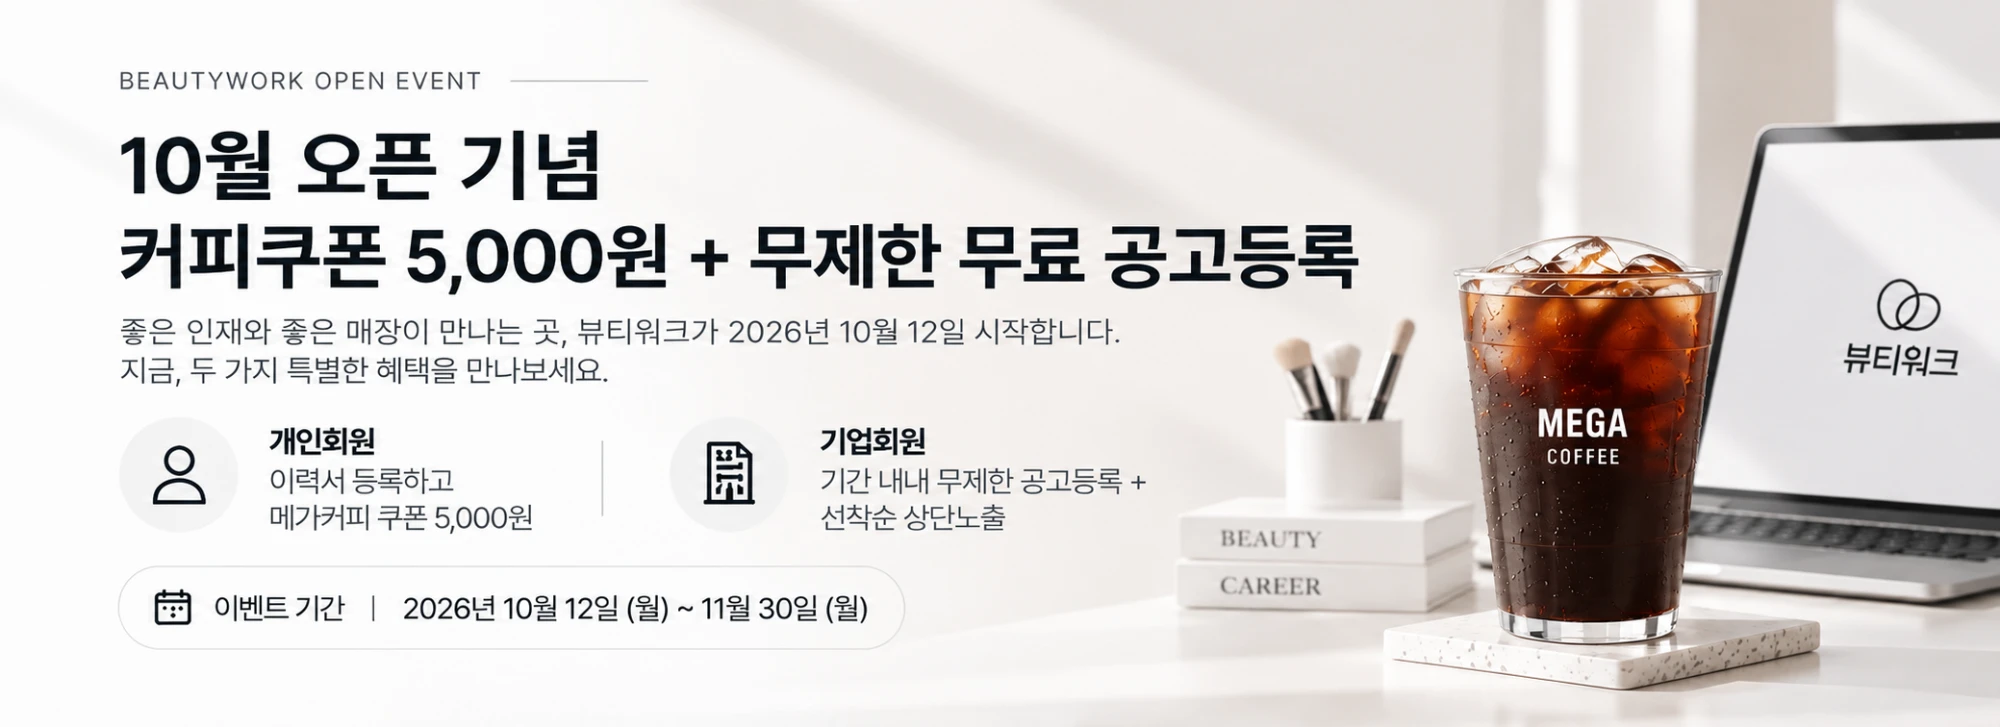
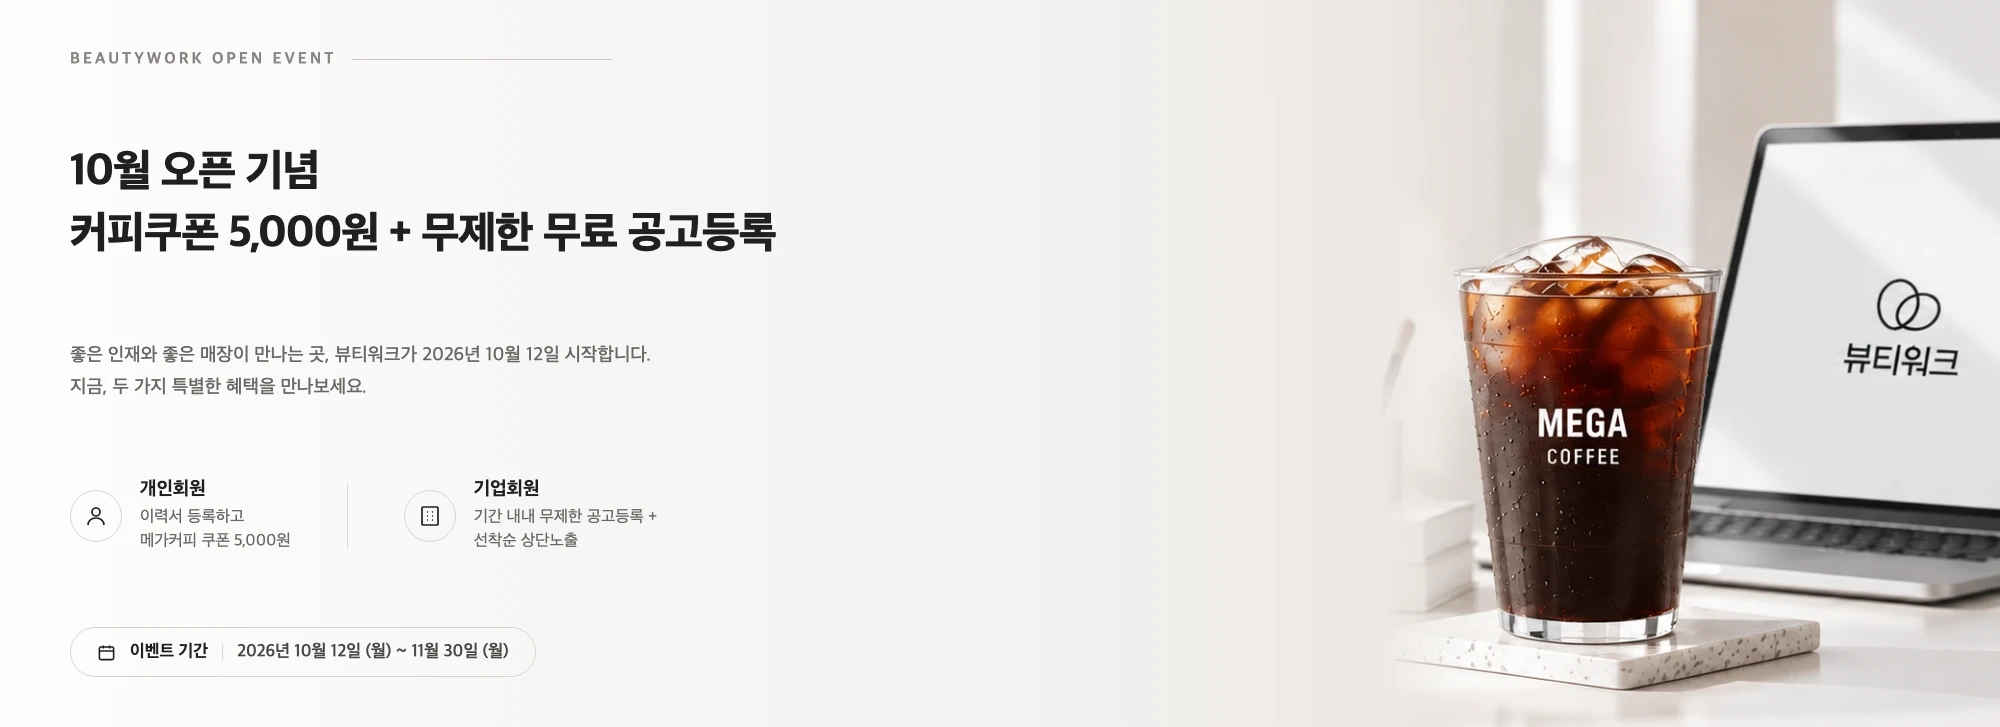
오픈이벤트 배너 글자를 줄이고 여백을 살려 다시 짠다
기존 배너는 원본 그림에 글자가 통째로 구워져 있어 폰트 크기를 못 고쳤다.
같은 사진(오른쪽 커피·노트북 컷만 오려냄)에 글자를 실제 HTML로 다시 짜서
크롬 헤드리스로 2000x727 그대로 굽는 방식으로 바꿨다 — 이제 글자 크기·
줄간격을 코드로 고칠 수 있다. 크기를 줄이고 다섯 블록(줄표·제목·설명·
혜택 둘·기간)을 위아래 전체에 고르게 펼쳐 예전에 비어 있던 상하 여백을
쓴다. 다음에 고칠 때 쓰라고 원본 템플릿(banner.html)과 사진을 같이 둔다.

diff --git a/scripts/오픈이벤트배너/banner.html b/scripts/오픈이벤트배너/banner.html
@@ -1,0 +1,97 @@
+<!-- 오픈 이벤트 메인 배너(2000x727) 원본.
+     사진(photo.png)은 처음 받은 오픈이벤트-메인배너.webp 의 오른쪽만 오려낸 것 —
+     글자는 실제 <div> 라 크기·간격을 여기서 고치고 다시 구우면 된다.
+
+     굽는 법(크롬 헤드리스로 정확한 픽셀 크기로 찍는다):
+       CHROME="/Applications/Google Chrome.app/Contents/MacOS/Google Chrome"
+       "$CHROME" --headless --disable-gpu --hide-scrollbars \
+         --force-device-scale-factor=1 --screenshot=out.png \
+         --window-size=2000,727 "file://$(pwd)/banner.html"
+     그 다음 PNG를 public/images/event/오픈이벤트-메인배너.webp 로 webp 변환해 덮어쓴다. -->
+<!DOCTYPE html>
+<html>
+<head>
+<meta charset="utf-8">
+<style>
+  @font-face {
+    font-family: 'Pretendard';
+    src: local('Apple SD Gothic Neo');
+  }
+  * { box-sizing: border-box; margin: 0; padding: 0; }
+  html, body { width: 2000px; height: 727px; overflow: hidden; }
+  body { font-family: 'Apple SD Gothic Neo', 'Pretendard', sans-serif; }
+  .wrap { display: flex; width: 2000px; height: 727px; }
+  .left {
+    flex: 0 0 1380px;
+    height: 727px;
+    padding: 50px 70px;
+    display: flex;
+    flex-direction: column;
+    justify-content: space-between;
+    background: linear-gradient(90deg, #fdfdfd 0%, #f3f1ef 78%, #ece8e4 100%);
+  }
+  .right { flex: 0 0 620px; height: 727px; overflow: hidden; position: relative; }
+  .right img { width: 100%; height: 100%; object-fit: cover; display: block; }
+  .right::before { content: ""; position: absolute; inset: 0; width: 90px;
+    background: linear-gradient(90deg, #ece8e4 0%, rgba(236,232,228,0) 100%); }
+
+  .eyebrow { display: flex; align-items: center; gap: 16px; }
+  .eyebrow span { font-size: 16px; font-weight: 700; letter-spacing: 3px; color: #8a8580; }
+  .eyebrow i { display: block; width: 260px; height: 1px; background: #cfc9c3; }
+
+  .headline { font-size: 44px; font-weight: 800; line-height: 1.42; letter-spacing: -1px; color: #1f1f22; }
+
+  .desc { font-size: 19px; font-weight: 500; line-height: 1.7; color: #6b6864; }
+
+  .benefits { display: flex; align-items: flex-start; gap: 56px; }
+  .benefit { display: flex; align-items: center; gap: 18px; }
+  .benefit .ic { flex: none; width: 52px; height: 52px; border-radius: 50%; border: 1.5px solid #d9d4cf;
+    display: flex; align-items: center; justify-content: center; }
+  .benefit b { display: block; font-size: 19px; font-weight: 700; color: #1f1f22; margin-bottom: 4px; }
+  .benefit p { margin: 0; font-size: 16.5px; line-height: 1.5; color: #6b6864; }
+  .sep { width: 1px; align-self: stretch; background: #ddd8d3; margin: 6px 0; }
+
+  .period { display: inline-flex; align-items: center; gap: 14px; padding: 14px 26px; border-radius: 100px;
+    border: 1.5px solid #d9d4cf; width: fit-content; }
+  .period .ic { flex: none; display: flex; align-items: center; justify-content: center; color: #1f1f22; }
+  .period b { font-size: 17px; font-weight: 700; color: #1f1f22; }
+  .period span.bar { width: 1px; height: 16px; background: #d9d4cf; }
+  .period span.d { font-size: 17px; font-weight: 600; color: #4a4844; }
+</style>
+</head>
+<body>
+  <div class="wrap">
+    <div class="left">
+      <div class="eyebrow"><span>BEAUTYWORK OPEN EVENT</span><i></i></div>
+
+      <div class="headline">10월 오픈 기념<br>커피쿠폰 5,000원 + 무제한 무료 공고등록</div>
+
+      <div class="desc">좋은 인재와 좋은 매장이 만나는 곳, 뷰티워크가 2026년 10월 12일 시작합니다.<br>지금, 두 가지 특별한 혜택을 만나보세요.</div>
+
+      <div class="benefits">
+        <div class="benefit">
+          <span class="ic">
+            <svg width="24" height="24" viewBox="0 0 24 24" fill="none" stroke="#1f1f22" stroke-width="1.7"><circle cx="12" cy="8" r="4"/><path d="M4 21c0-4.4 3.6-7 8-7s8 2.6 8 7"/></svg>
+          </span>
+          <div><b>개인회원</b><p>이력서 등록하고<br>메가커피 쿠폰 5,000원</p></div>
+        </div>
+        <div class="sep"></div>
+        <div class="benefit">
+          <span class="ic">
+            <svg width="24" height="24" viewBox="0 0 24 24" fill="none" stroke="#1f1f22" stroke-width="1.7"><rect x="4" y="3" width="16" height="18" rx="1"/><path d="M9 8h1M14 8h1M9 12h1M14 12h1M9 16h1M14 16h1"/></svg>
+          </span>
+          <div><b>기업회원</b><p>기간 내내 무제한 공고등록 +<br>선착순 상단노출</p></div>
+        </div>
+      </div>
+
+      <div class="period">
+        <span class="ic"><svg width="19" height="19" viewBox="0 0 24 24" fill="none" stroke="#1f1f22" stroke-width="2"><rect x="3" y="5" width="18" height="16" rx="2"/><path d="M8 3v4M16 3v4M3 10h18"/></svg></span>
+        <b>이벤트 기간</b>
+        <span class="bar"></span>
+        <span class="d">2026년 10월 12일 (월) ~ 11월 30일 (월)</span>
+      </div>
+    </div>
+    <div class="right"><img src="photo.png"></div>
+  </div>
+</body>
+</html>
